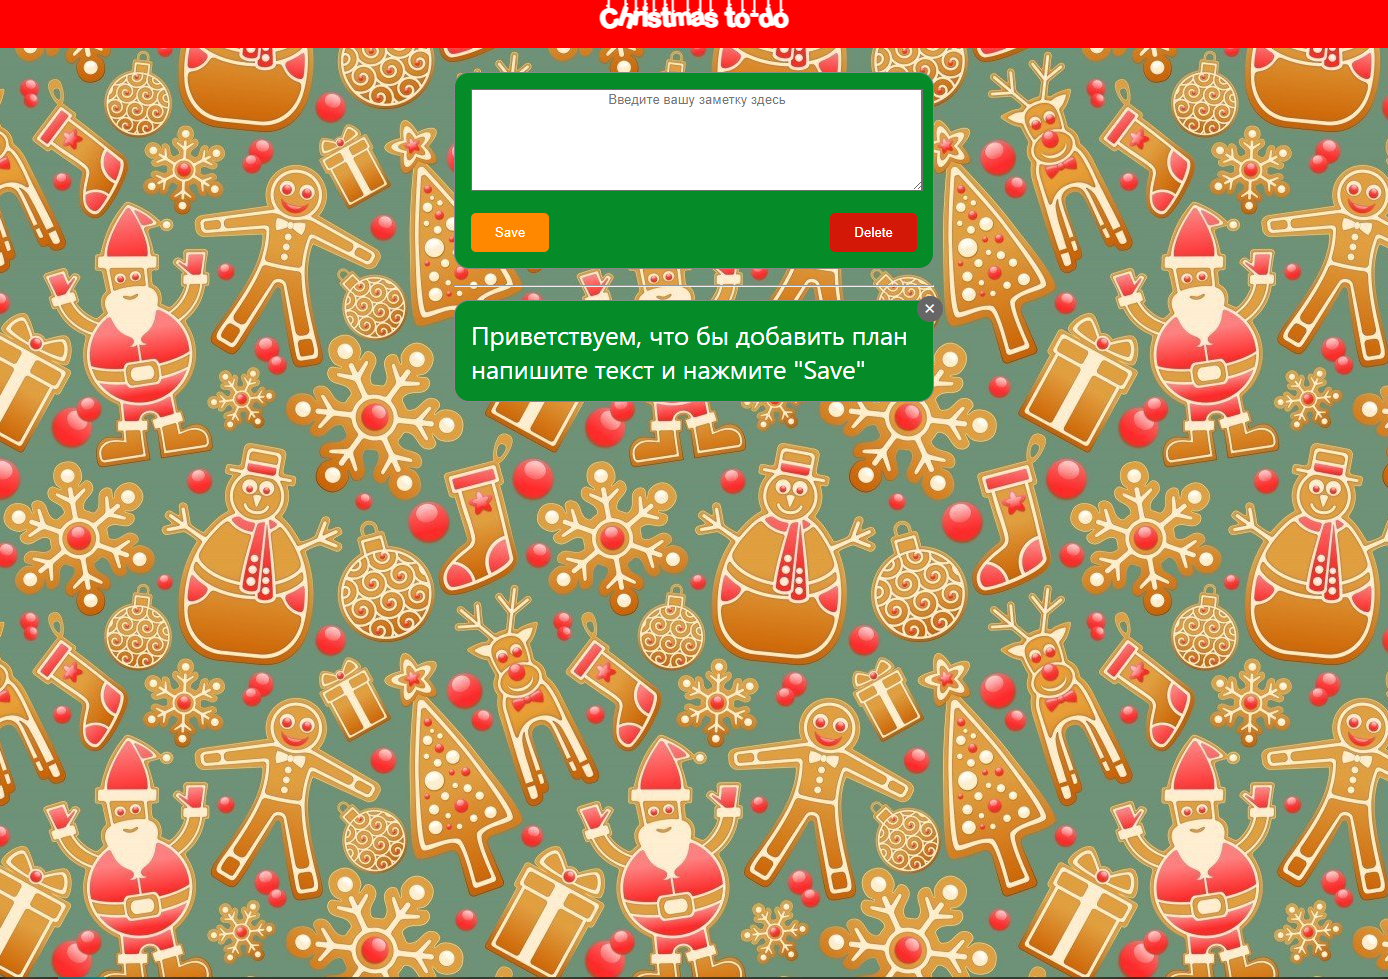
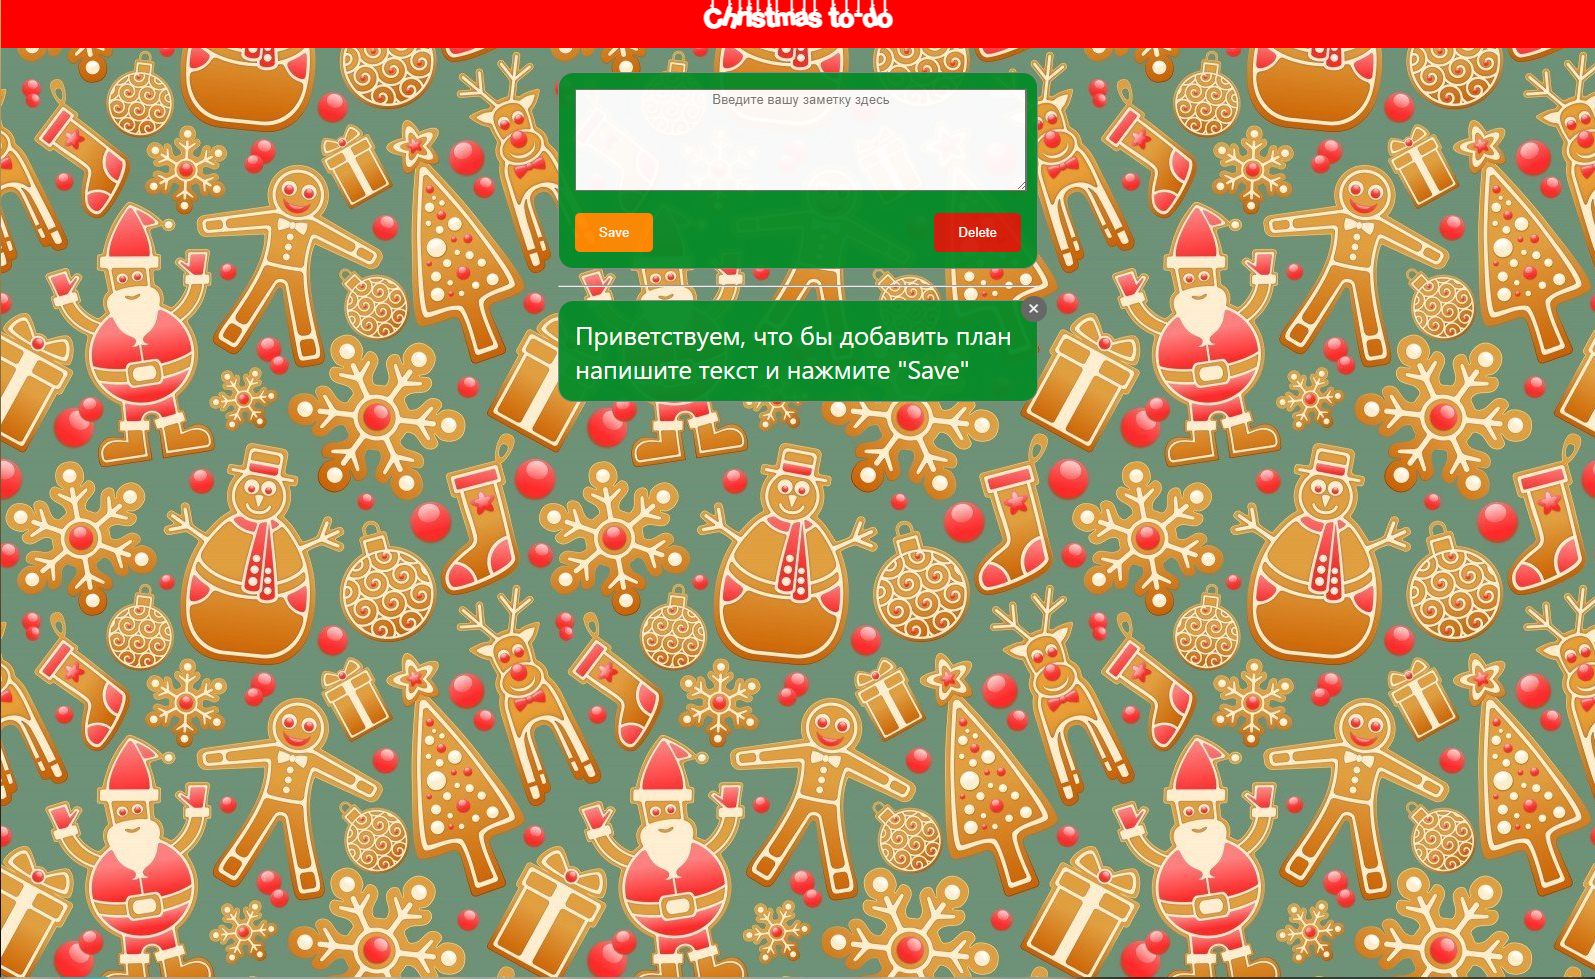
Fix Readme

diff --git a/src/index.css b/src/index.css
@@ -17,7 +17,7 @@ body {
  margin-bottom: 1rem;
  color: #ffffff;
  background-color: rgb(5, 139, 39);
-
+ opacity: 95%;
 
 }
 .Notes {
